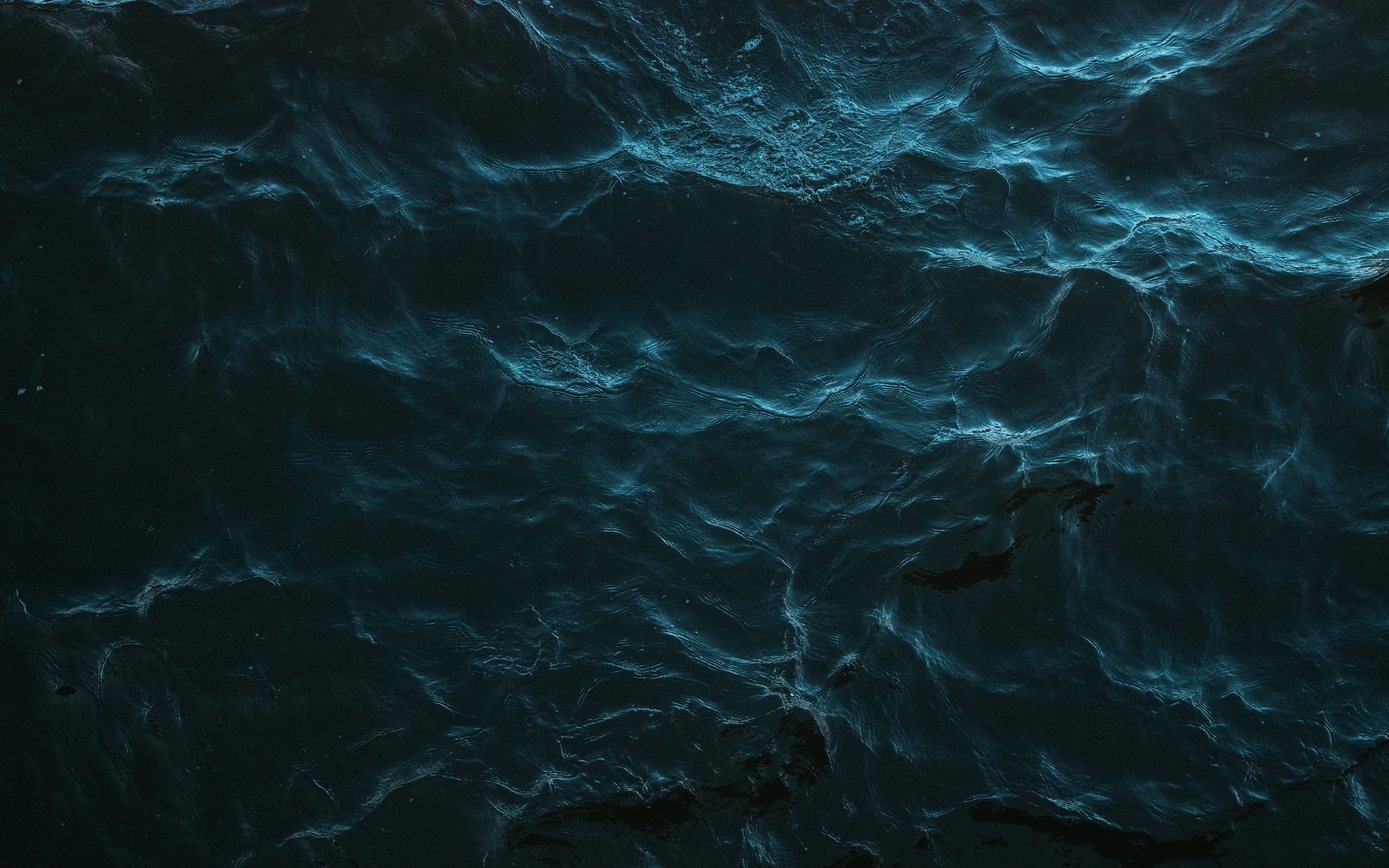
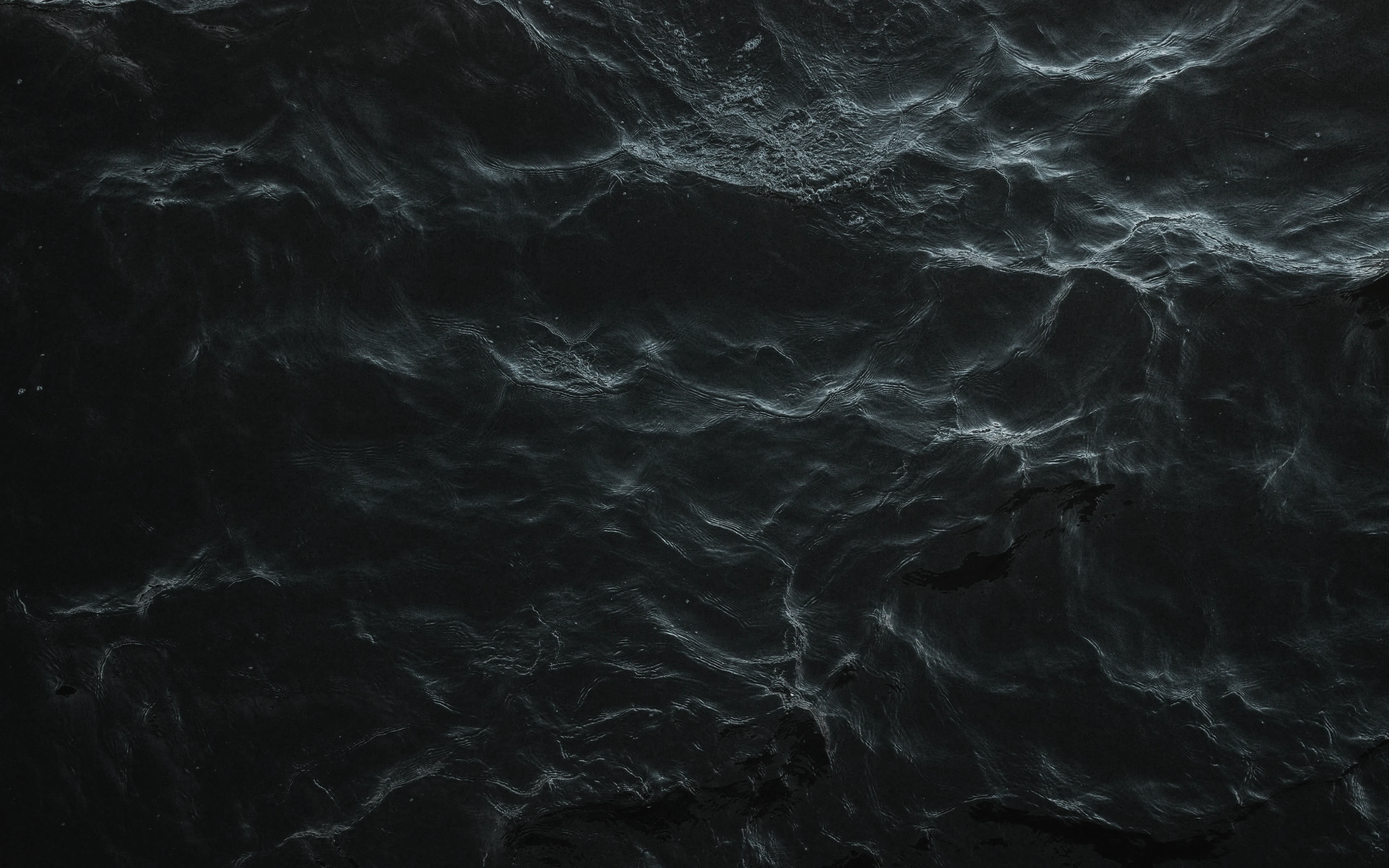
Go graphite: neutral grey chrome, grey selection, desaturated wallpapers

diff --git a/README.md b/README.md
@@ -1,7 +1,8 @@
 # Tidal Glass
 
-A dark theme for [Omarchy](https://omarchy.org). Graphite blue-grey windows, one
-sea-blue accent, and four photographs of cold water.
+A dark theme for [Omarchy](https://omarchy.org). Neutral graphite windows, grey
+selection instead of an accent colour, and four near-monochrome photographs of
+cold water.
 
 ![Tidal Glass preview](preview.png)
 
@@ -45,7 +46,7 @@ omarchy theme remove tidal-glass
 | `colors.toml` | The palette. Omarchy builds the terminal, editor, btop and app themes from it. |
 | `shell.toml` | Menus, launcher, notifications and lock screen. |
 | `hyprland.lua` | 1px borders, 11px corners, window shadow. |
-| `icons.theme` | `Yaru-blue-dark` |
+| `icons.theme` | `Yaru-sage-dark` |
 | `backgrounds/` | The wallpapers. |
 
 ### Corners and shadows
@@ -68,12 +69,12 @@ install command again, then repeat these two lines.
 
 | | | | |
 |---|---|---|---|
-| background | `#1a2028` | foreground | `#d9dce0` |
-| accent | `#4a90c8` | selection | `#2c3f55` |
-| red | `#d96a70` | orange | `#cf8c5c` |
-| yellow | `#d3b878` | green | `#8db388` |
-| cyan | `#6bb2b8` | blue | `#6a9ed2` |
-| magenta | `#a590c0` | brown | `#9a8979` |
+| background | `#1e1e20` | foreground | `#dcdcde` |
+| accent | `#a3a4a8` | selection | `#3a3a3d` |
+| red | `#d9757a` | orange | `#cd9063` |
+| yellow | `#cdb67e` | green | `#93ae8b` |
+| cyan | `#72acae` | blue | `#7c9cc0` |
+| magenta | `#a893b9` | brown | `#9a8d80` |
 
 Window borders are a plain white hairline at low opacity, a little brighter on
 the focused window.
@@ -81,7 +82,7 @@ the focused window.
 ## Wallpapers
 
 All four are from [Pexels](https://www.pexels.com/license/), cropped to 16:10
-and lightly graded.
+and desaturated to sit with the grey windows.
 
 | File | Photographer |
 |------|--------------|
